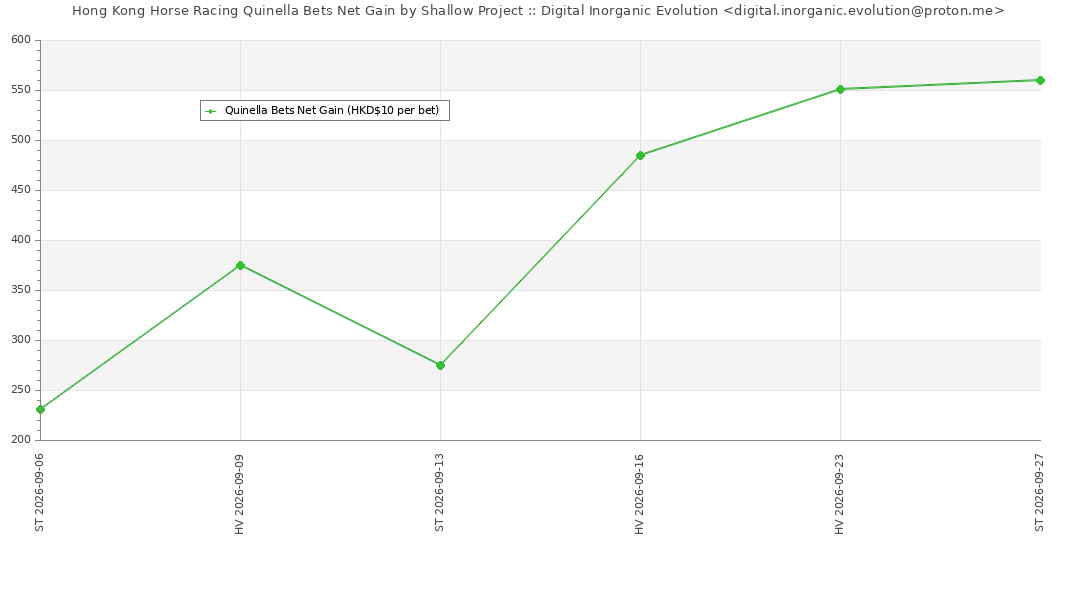
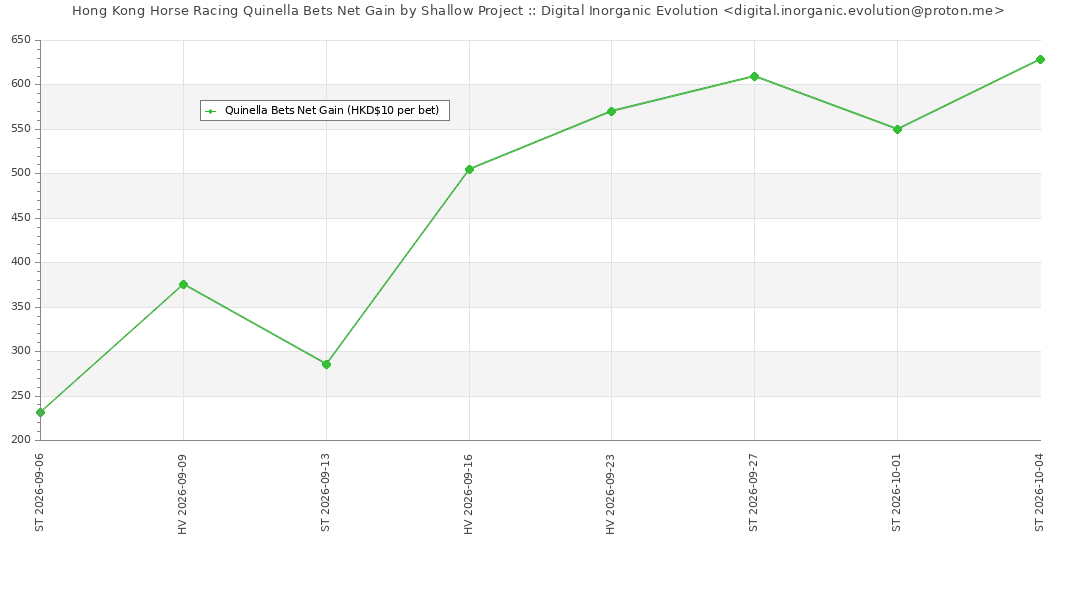
UKR Result 2026-10-05

diff --git a/dissent.html b/dissent.html
@@ -16,101 +16,112 @@
 <h1>Digital Inorganic Evolution by <a href='https://viewlaboratory.wordpress.com/' target='_blank'>VIEWLab</a> 數碼無機進化賭博研究實驗室</h1>
 <h1>Dissent Project Experiment Results (2026-09-01 ~ )</h1>
 <p>
-<h2>Dissent Project :: UK Horse Racing Win Bets Net Gain Graph</h2>
+<h2>Dissent Project :: UK Horse Racing Win/Place Summary</h2>
+<table id='dissent-summary' class='cell-border compact stripe nowrap' border=1><thead><tr><th>Number of Bets</th><th>Number of Correct Win</th><th>Win Accuracy</th><th>Win NetGain</th><th>Number of Correct Place</th><th>Place Accuracy</th><th>Place NetGain</th></tr><tbody><tr><td>50</td><td>10</td><td>0.2</td><td>-8.47</td><td>21</td><td>0.42</td><td>-7.2</td></tr></tbody></table><h2>Dissent Project :: UK Horse Racing Win/Place Bets Net Gain Graph</h2>
 <img src='dissent.jpg'>
 <hr>
 <p>
 <h2>Betting Details</h2>
-	<table id='dissent-table' class='cell-border compact stripe nowrap' border=1><thead><tr><th>Date</th><th>Track</th><th>Time</th><th>Horse Name</th><th>Position</th><th>Win Dividend</th><th>Win Net Gain</th><tbody>
-<tr><td>2026-09-01</td><td>Brighton</td><td>1740</td><td>Foinix</td><td>4</td><td>0</td><td>-1</td></tr>
+	<table id='dissent-table' class='cell-border compact stripe nowrap' border=1><thead><tr><th>Date</th><th>Track</th><th>Time</th><th>Horse Name</th><th>Position</th><th>Win Dividend</th><th>Win Net Gain</th><th>Place Dividend</th><th>Place Net Gain</th><tbody>
+<tr><td>2026-10-05</td><td>Kempton Park</td><td>2015</td><td>Currumbin</td><td>2</td><td>0</td><td>-1</td><td>1.1</td><td>0.1</td></tr>
 
-<tr><td>2026-09-01</td><td>Lingfield</td><td>1620</td><td>Hope Rising</td><td>1</td><td>3.75</td><td>1.75</td></tr>
+<tr><td>2026-10-03</td><td>Newmarket</td><td>1410</td><td>Primo Lara</td><td>6</td><td>0</td><td>-2</td><td>0</td><td>-0.9</td></tr>
 
-<tr><td>2026-09-02</td><td>Bath</td><td>1600</td><td>Basilette</td><td>2</td><td>0</td><td>0.75</td></tr>
+<tr><td>2026-10-03</td><td>Ascot</td><td>1425</td><td>By The Book</td><td>4</td><td>0</td><td>-3</td><td>0</td><td>-1.9</td></tr>
 
-<tr><td>2026-09-02</td><td>Hamilton Park</td><td>1750</td><td>Perseus Way</td><td>1</td><td>3</td><td>2.75</td></tr>
+<tr><td>2026-10-02</td><td>Ascot</td><td>1645</td><td>Vaguely Royal</td><td>5</td><td>0</td><td>-4</td><td>0</td><td>-2.9</td></tr>
 
-<tr><td>2026-09-03</td><td>Haydock Park</td><td>1330</td><td>Alpine Sierra</td><td>3</td><td>0</td><td>1.75</td></tr>
+<tr><td>2026-10-01</td><td>Nottingham</td><td>1433</td><td>Regally Blonde</td><td>2</td><td>0</td><td>-5</td><td>2.2</td><td>-1.7</td></tr>
 
-<tr><td>2026-09-03</td><td>Newcastle</td><td>1524</td><td>It's All About You</td><td>3</td><td>0</td><td>0.75</td></tr>
+<tr><td>2026-09-30</td><td>Catterick Bridge</td><td>1507</td><td>Sugarpiehoneybunch</td><td>6</td><td>0</td><td>-6</td><td>0</td><td>-2.7</td></tr>
 
-<tr><td>2026-09-04</td><td>Haydock Park</td><td>1330</td><td>Dance Time</td><td>4</td><td>0</td><td>-0.25</td></tr>
+<tr><td>2026-09-30</td><td>Musselburgh</td><td>1708</td><td>Simple Star</td><td>1</td><td>5</td><td>-2</td><td>2</td><td>-1.7</td></tr>
 
-<tr><td>2026-09-04</td><td>Haydock Park</td><td>1653</td><td>Yokohama</td><td>3</td><td>0</td><td>-1.25</td></tr>
+<tr><td>2026-09-29</td><td>Bath</td><td>1432</td><td>Two Plus Two</td><td>7</td><td>0</td><td>-3</td><td>0</td><td>-2.7</td></tr>
 
-<tr><td>2026-09-04</td><td>Kempton Park</td><td>2024</td><td>Educator</td><td>7</td><td>0</td><td>-2.25</td></tr>
+<tr><td>2026-09-29</td><td>Wolverhampton</td><td>1700</td><td>Currumbin</td><td>2</td><td>0</td><td>-4</td><td>2.6</td><td>-1.1</td></tr>
 
-<tr><td>2026-09-05</td><td>Kempton Park</td><td>1450</td><td>Constitution Hill</td><td>4</td><td>0</td><td>-3.25</td></tr>
+<tr><td>2026-09-29</td><td>Ayr</td><td>1713</td><td>Aighear</td><td>1</td><td>3.5</td><td>-1.5</td><td>1.8</td><td>-0.3</td></tr>
 
-<tr><td>2026-09-05</td><td>Newcastle</td><td>1610</td><td>Rubellite</td><td>1</td><td>6.7</td><td>2.45</td></tr>
+<tr><td>2026-09-26</td><td>Ripon</td><td>1745</td><td>Sax Appeal</td><td>1</td><td>5.5</td><td>3</td><td>2.4</td><td>1.1</td></tr>
 
-<tr><td>2026-09-05</td><td>Haydock Park</td><td>1505</td><td>Stressfree</td><td>4</td><td>0</td><td>1.45</td></tr>
+<tr><td>2026-09-25</td><td>Haydock Park</td><td>1723</td><td>Kotari</td><td>2</td><td>0</td><td>2</td><td>1.9</td><td>2</td></tr>
 
-<tr><td>2026-09-06</td><td>York</td><td>1440</td><td>Moon Chime</td><td>1</td><td>4.5</td><td>4.95</td></tr>
+<tr><td>2026-09-24</td><td>Newmarket</td><td>1535</td><td>Gregory</td><td>1</td><td>1.58</td><td>2.58</td><td>1.1</td><td>2.1</td></tr>
 
-<tr><td>2026-09-07</td><td>Wolverhampton</td><td>1830</td><td>Robusto</td><td>3</td><td>0</td><td>3.95</td></tr>
+<tr><td>2026-09-24</td><td>Newmarket</td><td>1610</td><td>First Officer</td><td>6</td><td>0</td><td>1.58</td><td>0</td><td>1.1</td></tr>
 
-<tr><td>2026-09-10</td><td>Epsom Downs</td><td>1542</td><td>Charmaine</td><td>6</td><td>0</td><td>2.95</td></tr>
+<tr><td>2026-09-24</td><td>Pontefract</td><td>1627</td><td>L'Eagle Aid</td><td>3</td><td>0</td><td>0.58</td><td>1.5</td><td>1.6</td></tr>
 
-<tr><td>2026-09-11</td><td>Doncaster</td><td>1500</td><td>Berkshire Sundance</td><td>6</td><td>0</td><td>1.95</td></tr>
+<tr><td>2026-09-23</td><td>Goodwood</td><td>1625</td><td>Green Sky</td><td>4</td><td>0</td><td>-0.42</td><td>0</td><td>0.6</td></tr>
 
-<tr><td>2026-09-11</td><td>Doncaster</td><td>1535</td><td>Green Sky</td><td>8</td><td>0</td><td>0.95</td></tr>
+<tr><td>2026-09-21</td><td>Ffos Las</td><td>1544</td><td>Torcello</td><td>8</td><td>0</td><td>-1.42</td><td>0</td><td>-0.4</td></tr>
 
-<tr><td>2026-09-11</td><td>Chester</td><td>1703</td><td>Cascade Hall</td><td>1</td><td>3</td><td>2.95</td></tr>
+<tr><td>2026-09-19</td><td>Newbury</td><td>1337</td><td>Primo Lara</td><td>3</td><td>0</td><td>-2.42</td><td>1.5</td><td>0.1</td></tr>
 
-<tr><td>2026-09-12</td><td>Musselburgh</td><td>1850</td><td>Simple Star</td><td>5</td><td>0</td><td>1.95</td></tr>
+<tr><td>2026-09-19</td><td>Newmarket</td><td>1620</td><td>Premiere Ligne</td><td>1</td><td>5</td><td>1.58</td><td>2.1</td><td>1.2</td></tr>
 
-<tr><td>2026-09-12</td><td>Lingfield</td><td>1413</td><td>Hebridean Nomad</td><td>4</td><td>0</td><td>0.95</td></tr>
+<tr><td>2026-09-19</td><td>Chester</td><td>1725</td><td>Bulldog Spirit</td><td>6</td><td>0</td><td>0.58</td><td>0</td><td>0.2</td></tr>
 
-<tr><td>2026-09-12</td><td>Chester</td><td>1405</td><td>Tribal Star</td><td>4</td><td>0</td><td>-0.05</td></tr>
+<tr><td>2026-09-18</td><td>Ayr</td><td>1720</td><td>Cascade Hall</td><td>2</td><td>0</td><td>-0.42</td><td>1.2</td><td>0.4</td></tr>
 
-<tr><td>2026-09-12</td><td>Bath</td><td>1320</td><td>Shahbaz</td><td>4</td><td>0</td><td>-1.05</td></tr>
+<tr><td>2026-09-18</td><td>Wolverhampton</td><td>1945</td><td>Billy Bathgate</td><td>6</td><td>0</td><td>-1.42</td><td>0</td><td>-0.6</td></tr>
 
-<tr><td>2026-09-12</td><td>Chester</td><td>1742</td><td>Haveyoumissedme</td><td>8</td><td>0</td><td>-2.05</td></tr>
+<tr><td>2026-09-17</td><td>Pontefract</td><td>1638</td><td>Merrijig</td><td>4</td><td>0</td><td>-2.42</td><td>0</td><td>-1.6</td></tr>
 
-<tr><td>2026-09-13</td><td>Bath</td><td>1515</td><td>Percy Jones</td><td>3</td><td>0</td><td>-3.05</td></tr>
+<tr><td>2026-09-17</td><td>Ayr</td><td>1701</td><td>Golden West</td><td>8</td><td>0</td><td>-3.42</td><td>0</td><td>-2.6</td></tr>
 
-<tr><td>2026-09-14</td><td>Windsor</td><td>1612</td><td>Great Bedwyn</td><td>5</td><td>0</td><td>-4.05</td></tr>
+<tr><td>2026-09-17</td><td>Southwell</td><td>1725</td><td>Charging Thunder</td><td>4</td><td>0</td><td>-4.42</td><td>0</td><td>-3.6</td></tr>
 
-<tr><td>2026-09-17</td><td>Ayr</td><td>1701</td><td>Golden West</td><td>8</td><td>0</td><td>-5.05</td></tr>
+<tr><td>2026-09-14</td><td>Windsor</td><td>1612</td><td>Great Bedwyn</td><td>5</td><td>0</td><td>-5.42</td><td>0</td><td>-4.6</td></tr>
 
-<tr><td>2026-09-17</td><td>Pontefract</td><td>1638</td><td>Merrijig</td><td>4</td><td>0</td><td>-6.05</td></tr>
+<tr><td>2026-09-13</td><td>Bath</td><td>1515</td><td>Percy Jones</td><td>3</td><td>0</td><td>-6.42</td><td>3.4</td><td>-2.2</td></tr>
 
-<tr><td>2026-09-17</td><td>Southwell</td><td>1725</td><td>Charging Thunder</td><td>4</td><td>0</td><td>-7.05</td></tr>
+<tr><td>2026-09-12</td><td>Bath</td><td>1320</td><td>Shahbaz</td><td>4</td><td>0</td><td>-7.42</td><td>0</td><td>-3.2</td></tr>
 
-<tr><td>2026-09-18</td><td>Ayr</td><td>1720</td><td>Cascade Hall</td><td>2</td><td>0</td><td>-8.05</td></tr>
+<tr><td>2026-09-12</td><td>Chester</td><td>1405</td><td>Tribal Star</td><td>4</td><td>0</td><td>-8.42</td><td>0</td><td>-4.2</td></tr>
 
-<tr><td>2026-09-18</td><td>Wolverhampton</td><td>1945</td><td>Billy Bathgate</td><td>6</td><td>0</td><td>-9.05</td></tr>
+<tr><td>2026-09-12</td><td>Lingfield</td><td>1413</td><td>Hebridean Nomad</td><td>4</td><td>0</td><td>-9.42</td><td>0</td><td>-5.2</td></tr>
 
-<tr><td>2026-09-19</td><td>Chester</td><td>1725</td><td>Bulldog Spirit</td><td>6</td><td>0</td><td>-10.05</td></tr>
+<tr><td>2026-09-12</td><td>Chester</td><td>1742</td><td>Haveyoumissedme</td><td>8</td><td>0</td><td>-10.42</td><td>0</td><td>-6.2</td></tr>
 
-<tr><td>2026-09-19</td><td>Newmarket</td><td>1620</td><td>Premiere Ligne</td><td>1</td><td>5</td><td>-6.05</td></tr>
+<tr><td>2026-09-12</td><td>Musselburgh</td><td>1850</td><td>Simple Star</td><td>5</td><td>0</td><td>-11.42</td><td>0</td><td>-7.2</td></tr>
 
-<tr><td>2026-09-19</td><td>Newbury</td><td>1337</td><td>Primo Lara</td><td>3</td><td>0</td><td>-7.05</td></tr>
+<tr><td>2026-09-11</td><td>Doncaster</td><td>1500</td><td>Berkshire Sundance</td><td>6</td><td>0</td><td>-12.42</td><td>0</td><td>-8.2</td></tr>
 
-<tr><td>2026-09-21</td><td>Ffos Las</td><td>1544</td><td>Torcello</td><td>8</td><td>0</td><td>-8.05</td></tr>
+<tr><td>2026-09-11</td><td>Doncaster</td><td>1535</td><td>Green Sky</td><td>8</td><td>0</td><td>-13.42</td><td>0</td><td>-9.2</td></tr>
 
-<tr><td>2026-09-23</td><td>Goodwood</td><td>1625</td><td>Green Sky</td><td>4</td><td>0</td><td>-9.05</td></tr>
+<tr><td>2026-09-11</td><td>Chester</td><td>1703</td><td>Cascade Hall</td><td>1</td><td>3</td><td>-11.42</td><td>1.5</td><td>-8.7</td></tr>
 
-<tr><td>2026-09-24</td><td>Newmarket</td><td>1535</td><td>Gregory</td><td>1</td><td>1.58</td><td>-8.47</td></tr>
+<tr><td>2026-09-10</td><td>Epsom Downs</td><td>1542</td><td>Charmaine</td><td>6</td><td>0</td><td>-12.42</td><td>0</td><td>-9.7</td></tr>
 
-<tr><td>2026-09-24</td><td>Newmarket</td><td>1610</td><td>First Officer</td><td>6</td><td>0</td><td>-9.47</td></tr>
+<tr><td>2026-09-07</td><td>Wolverhampton</td><td>1830</td><td>Robusto</td><td>3</td><td>0</td><td>-13.42</td><td>0</td><td>-10.7</td></tr>
 
-<tr><td>2026-09-24</td><td>Pontefract</td><td>1627</td><td>L'Eagle Aid</td><td>3</td><td>0</td><td>-10.47</td></tr>
+<tr><td>2026-09-06</td><td>York</td><td>1440</td><td>Moon Chime</td><td>1</td><td>4.5</td><td>-9.92</td><td>1.8</td><td>-9.9</td></tr>
 
-<tr><td>2026-09-25</td><td>Haydock Park</td><td>1723</td><td>Kotari</td><td>2</td><td>0</td><td>-11.47</td></tr>
+<tr><td>2026-09-05</td><td>Kempton Park</td><td>1450</td><td>Constitution Hill</td><td>4</td><td>0</td><td>-10.92</td><td>0</td><td>-10.9</td></tr>
 
-<tr><td>2026-09-26</td><td>Ripon</td><td>1745</td><td>Sax Appeal</td><td>1</td><td>5.5</td><td>-6.97</td></tr>
+<tr><td>2026-09-05</td><td>Haydock Park</td><td>1505</td><td>Stressfree</td><td>4</td><td>0</td><td>-11.92</td><td>0</td><td>-11.9</td></tr>
 
-<tr><td>2026-09-29</td><td>Bath</td><td>1432</td><td>Two Plus Two</td><td>7</td><td>0</td><td>-7.97</td></tr>
+<tr><td>2026-09-05</td><td>Newcastle</td><td>1610</td><td>Rubellite</td><td>1</td><td>6.7</td><td>-6.22</td><td>2.4</td><td>-10.5</td></tr>
 
-<tr><td>2026-09-29</td><td>Ayr</td><td>1713</td><td>Aighear</td><td>1</td><td>3.5</td><td>-5.47</td></tr>
+<tr><td>2026-09-04</td><td>Haydock Park</td><td>1330</td><td>Dance Time</td><td>4</td><td>0</td><td>-7.22</td><td>0</td><td>-11.5</td></tr>
 
-<tr><td>2026-09-29</td><td>Wolverhampton</td><td>1700</td><td>Currumbin</td><td>2</td><td>0</td><td>-6.47</td></tr>
+<tr><td>2026-09-04</td><td>Haydock Park</td><td>1653</td><td>Yokohama</td><td>3</td><td>0</td><td>-8.22</td><td>2.3</td><td>-10.2</td></tr>
 
-<tr><td>2026-09-30</td><td>Musselburgh</td><td>1708</td><td>Simple Star</td><td>1</td><td>5</td><td>-2.47</td></tr>
+<tr><td>2026-09-04</td><td>Kempton Park</td><td>2024</td><td>Educator</td><td>7</td><td>0</td><td>-9.22</td><td>0</td><td>-11.2</td></tr>
 
-<tr><td>2026-09-30</td><td>Catterick Bridge</td><td>1507</td><td>Sugarpiehoneybunch</td><td>6</td><td>0</td><td>-3.47</td></tr>
+<tr><td>2026-09-03</td><td>Haydock Park</td><td>1330</td><td>Alpine Sierra</td><td>3</td><td>0</td><td>-10.22</td><td>6</td><td>-6.2</td></tr>
+
+<tr><td>2026-09-03</td><td>Newcastle</td><td>1524</td><td>It's All About You</td><td>3</td><td>0</td><td>-11.22</td><td>0</td><td>-7.2</td></tr>
+
+<tr><td>2026-09-02</td><td>Bath</td><td>1600</td><td>Basilette</td><td>2</td><td>0</td><td>-12.22</td><td>1.2</td><td>-7</td></tr>
+
+<tr><td>2026-09-02</td><td>Hamilton Park</td><td>1750</td><td>Perseus Way</td><td>1</td><td>3</td><td>-10.22</td><td>1.5</td><td>-6.5</td></tr>
+
+<tr><td>2026-09-01</td><td>Lingfield</td><td>1620</td><td>Hope Rising</td><td>1</td><td>3.75</td><td>-7.47</td><td>1.3</td><td>-6.2</td></tr>
+
+<tr><td>2026-09-01</td><td>Brighton</td><td>1740</td><td>Foinix</td><td>4</td><td>0</td><td>-8.47</td><td>0</td><td>-7.2</td></tr>
 </tbody></table>	<li><i>Enquiries: digital.inorganic.evolution@proton.me</i></li>
 	<hr>
 <p>
@@ -119,7 +130,7 @@
 <i>Research Disclaimer: Predictions published by the DISSENT (Digital Inorganic Evolution Research Project) are provided solely for research, educational, and model verification purposes. 
 They are intended to enable transparent evaluation of experimental results and are not betting advice, gambling recommendations, or financial advice. The project does not promote or encourage gambling. Any betting decisions made by individuals are entirely their own responsibility.</i>
 <p>
-<h4>Generated at HKT 2026-10-01 04:06:39</h4>
+<h4>Generated at HKT 2026-10-06 07:28:06</h4>
 	
 <script src="https://code.jquery.com/jquery-3.7.1.min.js"></script>
 <script type="text/javascript" src="https://cdn.datatables.net/2.3.7/js/dataTables.min.js"></script>  

diff --git a/shallow.html b/shallow.html
@@ -21,7 +21,7 @@
 <hr>
 <p>
 <h2>Betting Details</h2>
-	<table border=1><table id='shallow-table' class='cell-border compact stripe nowrap' border=1><thead><tr><th>RaceDate</th><th>RaceNo</th><th>H1HorseNo</th><th>H2HorseNo</th><th>H1Place</th><th>H2Place</th><th>Dividend Quinella</th></tr></thead><tbody><tr><td>2026-09-06</td><td>01</td><td>4</td><td>11</td><td>6</td><td>5</td><td>-10</td></tr><tr><td>2026-09-06</td><td>02</td><td>1</td><td>6</td><td>1</td><td>5</td><td>-10</td></tr><tr><td>2026-09-06</td><td>03</td><td>1</td><td>3</td><td>1</td><td>6</td><td>-10</td></tr><tr><td>2026-09-06</td><td>04</td><td>1</td><td>12</td><td>2</td><td>12</td><td>-10</td></tr><tr><td>2026-09-06</td><td>05</td><td>1</td><td>11</td><td>13</td><td>9</td><td>-10</td></tr><tr><td>2026-09-06</td><td>06</td><td>1</td><td>3</td><td><font color=red>1</font></td><td><font color=red>2</font></td><td><font color=red>153.50</font></td></tr><tr><td>2026-09-06</td><td>07</td><td>3</td><td>4</td><td>6</td><td>8</td><td>-10</td></tr><tr><td>2026-09-06</td><td>08</td><td>1</td><td>2</td><td><font color=red>1</font></td><td><font color=red>2</font></td><td><font color=red>177.50</font></td></tr><tr><td>2026-09-06</td><td>09</td><td>4</td><td>5</td><td>4</td><td>1</td><td>-10</td></tr><tr><td>2026-09-06</td><td>10</td><td>6</td><td>12</td><td>9</td><td>12</td><td>-10</td></tr><tr><td>2026-09-09</td><td>01</td><td>5</td><td>10</td><td>3</td><td>4</td><td>-10</td></tr><tr><td>2026-09-09</td><td>02</td><td>1</td><td>9</td><td>1</td><td>4</td><td>-10</td></tr><tr><td>2026-09-09</td><td>03</td><td>4</td><td>11</td><td>4</td><td>3</td><td>-10</td></tr><tr><td>2026-09-09</td><td>04</td><td>2</td><td>4</td><td>4</td><td>2</td><td>-10</td></tr><tr><td>2026-09-09</td><td>05</td><td>4</td><td>5</td><td>6</td><td>4</td><td>-10</td></tr><tr><td>2026-09-09</td><td>06</td><td>2</td><td>5</td><td>12</td><td>3</td><td>-10</td></tr><tr><td>2026-09-09</td><td>07</td><td>1</td><td>2</td><td><font color=red>1</font></td><td><font color=red>2</font></td><td><font color=red>224.00</font></td></tr><tr><td>2026-09-09</td><td>08</td><td>8</td><td>10</td><td>4</td><td>7</td><td>-10</td></tr><tr><td>2026-09-13</td><td>01</td><td>10</td><td>11</td><td>1</td><td>3</td><td>-10</td></tr><tr><td>2026-09-13</td><td>02</td><td>8</td><td>11</td><td>1</td><td>3</td><td>-10</td></tr><tr><td>2026-09-13</td><td>03</td><td>4</td><td>12</td><td>6</td><td>7</td><td>-10</td></tr><tr><td>2026-09-13</td><td>04</td><td>2</td><td>11</td><td>1</td><td>6</td><td>-10</td></tr><tr><td>2026-09-13</td><td>05</td><td>2</td><td>11</td><td>1</td><td>5</td><td>-10</td></tr><tr><td>2026-09-13</td><td>06</td><td>5</td><td>9</td><td>2</td><td>4</td><td>-10</td></tr><tr><td>2026-09-13</td><td>07</td><td>3</td><td>13</td><td>6</td><td>12</td><td>-10</td></tr><tr><td>2026-09-13</td><td>08</td><td>12</td><td>13</td><td>5</td><td>6</td><td>-10</td></tr><tr><td>2026-09-13</td><td>09</td><td>2</td><td>4</td><td>3</td><td>4</td><td>-10</td></tr><tr><td>2026-09-13</td><td>10</td><td>1</td><td>11</td><td>9</td><td>7</td><td>-10</td></tr><tr><td>2026-09-16</td><td>01</td><td>2</td><td>7</td><td>8</td><td>7</td><td>-10</td></tr><tr><td>2026-09-16</td><td>02</td><td>3</td><td>8</td><td><font color=red>1</font></td><td><font color=red>2</font></td><td><font color=red>110.50</font></td></tr><tr><td>2026-09-16</td><td>03</td><td>6</td><td>7</td><td><font color=red>2</font></td><td><font color=red>1</font></td><td><font color=red>179.50</font></td></tr><tr><td>2026-09-16</td><td>04</td><td>3</td><td>12</td><td>1</td><td>3</td><td>-10</td></tr><tr><td>2026-09-16</td><td>05</td><td>6</td><td>8</td><td>1</td><td>6</td><td>-10</td></tr><tr><td>2026-09-16</td><td>06</td><td>2</td><td>3</td><td>1</td><td>9</td><td>-10</td></tr><tr><td>2026-09-16</td><td>07</td><td>2</td><td>8</td><td>10</td><td>8</td><td>-10</td></tr><tr><td>2026-09-16</td><td>08</td><td>6</td><td>8</td><td>6</td><td>11</td><td>-10</td></tr><tr><td>2026-09-23</td><td>01</td><td>3</td><td>11</td><td>5</td><td>2</td><td>-10</td></tr><tr><td>2026-09-23</td><td>02</td><td>7</td><td>10</td><td>12</td><td>1</td><td>-10</td></tr><tr><td>2026-09-23</td><td>03</td><td>2</td><td>8</td><td><font color=red>2</font></td><td><font color=red>1</font></td><td><font color=red>155.50</font></td></tr><tr><td>2026-09-23</td><td>04</td><td>6</td><td>11</td><td>2</td><td>7</td><td>-10</td></tr><tr><td>2026-09-23</td><td>05</td><td>5</td><td>6</td><td>6</td><td>1</td><td>-10</td></tr><tr><td>2026-09-23</td><td>06</td><td>4</td><td>9</td><td>3</td><td>7</td><td>-10</td></tr><tr><td>2026-09-23</td><td>07</td><td>2</td><td>6</td><td>5</td><td>8</td><td>-10</td></tr><tr><td>2026-09-23</td><td>08</td><td>1</td><td>8</td><td>12</td><td>1</td><td>-10</td></tr><tr><td>2026-09-23</td><td>09</td><td>1</td><td>3</td><td>10</td><td>12</td><td>-10</td></tr><tr><td>2026-09-27</td><td>01</td><td>1</td><td>2</td><td>8</td><td>6</td><td>-10</td></tr><tr><td>2026-09-27</td><td>02</td><td>2</td><td>10</td><td>8</td><td>5</td><td>-10</td></tr><tr><td>2026-09-27</td><td>03</td><td>2</td><td>9</td><td>10</td><td>12</td><td>-10</td></tr><tr><td>2026-09-27</td><td>04</td><td>1</td><td>6</td><td>4</td><td>1</td><td>-10</td></tr><tr><td>2026-09-27</td><td>05</td><td>5</td><td>6</td><td>2</td><td>5</td><td>-10</td></tr><tr><td>2026-09-27</td><td>06</td><td>4</td><td>8</td><td>7</td><td>8</td><td>-10</td></tr><tr><td>2026-09-27</td><td>07</td><td>8</td><td>12</td><td><font color=red>1</font></td><td><font color=red>2</font></td><td><font color=red>119.50</font></td></tr><tr><td>2026-09-27</td><td>08</td><td>2</td><td>8</td><td>8</td><td>9</td><td>-10</td></tr><tr><td>2026-09-27</td><td>09</td><td>8</td><td>13</td><td>1</td><td>13</td><td>-10</td></tr><tr><td>2026-09-27</td><td>10</td><td>3</td><td>8</td><td>7</td><td>3</td><td>-10</td></tr><tr><td>2026-09-27</td><td>11</td><td>2</td><td>3</td><td>7</td><td>1</td><td>-10</td></tr></tbody></table></table><table border=1><tr><td>Num. Bets</td><td>Num. Quinella Win</td><td>Quinella Accuracy</td><td>Bet Total$</td><td>Quinella Win$</td><td>Ratio</td></tr><td>56</td><td>7</td><td>0.125</td><td>$560</td><td><font color=red>$1120 ($560)</font></td><td>1</td></tr><table border=1><hr>		<li><i>Enquiries: digital.inorganic.evolution@proton.me</i></li>
+	<table border=1><table id='shallow-table' class='cell-border compact stripe nowrap' border=1><thead><tr><th>RaceDate</th><th>RaceNo</th><th>H1HorseNo</th><th>H2HorseNo</th><th>H1Place</th><th>H2Place</th><th>Dividend Quinella</th></tr></thead><tbody><tr><td>2026-09-06</td><td>01</td><td>4</td><td>11</td><td>6</td><td>5</td><td>-10</td></tr><tr><td>2026-09-06</td><td>02</td><td>1</td><td>6</td><td>1</td><td>5</td><td>-10</td></tr><tr><td>2026-09-06</td><td>03</td><td>1</td><td>3</td><td>1</td><td>6</td><td>-10</td></tr><tr><td>2026-09-06</td><td>04</td><td>1</td><td>12</td><td>2</td><td>12</td><td>-10</td></tr><tr><td>2026-09-06</td><td>05</td><td>1</td><td>11</td><td>13</td><td>9</td><td>-10</td></tr><tr><td>2026-09-06</td><td>06</td><td>1</td><td>3</td><td><font color=red>1</font></td><td><font color=red>2</font></td><td><font color=red>153.50</font></td></tr><tr><td>2026-09-06</td><td>07</td><td>3</td><td>4</td><td>6</td><td>8</td><td>-10</td></tr><tr><td>2026-09-06</td><td>08</td><td>1</td><td>2</td><td><font color=red>1</font></td><td><font color=red>2</font></td><td><font color=red>177.50</font></td></tr><tr><td>2026-09-06</td><td>09</td><td>4</td><td>5</td><td>4</td><td>1</td><td>-10</td></tr><tr><td>2026-09-06</td><td>10</td><td>6</td><td>12</td><td>9</td><td>12</td><td>-10</td></tr><tr><td>2026-09-09</td><td>01</td><td>5</td><td>10</td><td>3</td><td>4</td><td>-10</td></tr><tr><td>2026-09-09</td><td>02</td><td>1</td><td>9</td><td>1</td><td>4</td><td>-10</td></tr><tr><td>2026-09-09</td><td>03</td><td>4</td><td>11</td><td>4</td><td>3</td><td>-10</td></tr><tr><td>2026-09-09</td><td>04</td><td>2</td><td>4</td><td>4</td><td>2</td><td>-10</td></tr><tr><td>2026-09-09</td><td>05</td><td>4</td><td>5</td><td>6</td><td>4</td><td>-10</td></tr><tr><td>2026-09-09</td><td>06</td><td>2</td><td>5</td><td>12</td><td>3</td><td>-10</td></tr><tr><td>2026-09-09</td><td>07</td><td>1</td><td>2</td><td><font color=red>1</font></td><td><font color=red>2</font></td><td><font color=red>224.00</font></td></tr><tr><td>2026-09-09</td><td>08</td><td>8</td><td>10</td><td>4</td><td>7</td><td>-10</td></tr><tr><td>2026-09-13</td><td>01</td><td>10</td><td>11</td><td>1</td><td>3</td><td>-10</td></tr><tr><td>2026-09-13</td><td>03</td><td>4</td><td>12</td><td>6</td><td>7</td><td>-10</td></tr><tr><td>2026-09-13</td><td>04</td><td>2</td><td>11</td><td>1</td><td>6</td><td>-10</td></tr><tr><td>2026-09-13</td><td>05</td><td>2</td><td>11</td><td>1</td><td>5</td><td>-10</td></tr><tr><td>2026-09-13</td><td>06</td><td>5</td><td>9</td><td>2</td><td>4</td><td>-10</td></tr><tr><td>2026-09-13</td><td>07</td><td>3</td><td>13</td><td>6</td><td>12</td><td>-10</td></tr><tr><td>2026-09-13</td><td>08</td><td>12</td><td>13</td><td>5</td><td>6</td><td>-10</td></tr><tr><td>2026-09-13</td><td>09</td><td>2</td><td>4</td><td>3</td><td>4</td><td>-10</td></tr><tr><td>2026-09-13</td><td>10</td><td>1</td><td>11</td><td>9</td><td>7</td><td>-10</td></tr><tr><td>2026-09-16</td><td>01</td><td>2</td><td>7</td><td>8</td><td>7</td><td>-10</td></tr><tr><td>2026-09-16</td><td>02</td><td>3</td><td>8</td><td><font color=red>1</font></td><td><font color=red>2</font></td><td><font color=red>110.50</font></td></tr><tr><td>2026-09-16</td><td>03</td><td>6</td><td>7</td><td><font color=red>2</font></td><td><font color=red>1</font></td><td><font color=red>179.50</font></td></tr><tr><td>2026-09-16</td><td>04</td><td>3</td><td>12</td><td>1</td><td>3</td><td>-10</td></tr><tr><td>2026-09-16</td><td>05</td><td>6</td><td>8</td><td>1</td><td>6</td><td>-10</td></tr><tr><td>2026-09-16</td><td>07</td><td>2</td><td>8</td><td>10</td><td>8</td><td>-10</td></tr><tr><td>2026-09-16</td><td>08</td><td>6</td><td>8</td><td>6</td><td>11</td><td>-10</td></tr><tr><td>2026-09-23</td><td>01</td><td>3</td><td>11</td><td>5</td><td>2</td><td>-10</td></tr><tr><td>2026-09-23</td><td>02</td><td>7</td><td>10</td><td>12</td><td>1</td><td>-10</td></tr><tr><td>2026-09-23</td><td>03</td><td>2</td><td>8</td><td><font color=red>2</font></td><td><font color=red>1</font></td><td><font color=red>155.50</font></td></tr><tr><td>2026-09-23</td><td>04</td><td>6</td><td>11</td><td>2</td><td>7</td><td>-10</td></tr><tr><td>2026-09-23</td><td>05</td><td>5</td><td>6</td><td>6</td><td>1</td><td>-10</td></tr><tr><td>2026-09-23</td><td>06</td><td>4</td><td>9</td><td>3</td><td>7</td><td>-10</td></tr><tr><td>2026-09-23</td><td>07</td><td>2</td><td>6</td><td>5</td><td>8</td><td>-10</td></tr><tr><td>2026-09-23</td><td>08</td><td>1</td><td>8</td><td>12</td><td>1</td><td>-10</td></tr><tr><td>2026-09-23</td><td>09</td><td>1</td><td>3</td><td>10</td><td>12</td><td>-10</td></tr><tr><td>2026-09-27</td><td>01</td><td>1</td><td>2</td><td>8</td><td>6</td><td>-10</td></tr><tr><td>2026-09-27</td><td>03</td><td>2</td><td>9</td><td>10</td><td>12</td><td>-10</td></tr><tr><td>2026-09-27</td><td>04</td><td>1</td><td>6</td><td>4</td><td>1</td><td>-10</td></tr><tr><td>2026-09-27</td><td>05</td><td>5</td><td>6</td><td>2</td><td>5</td><td>-10</td></tr><tr><td>2026-09-27</td><td>07</td><td>8</td><td>12</td><td><font color=red>1</font></td><td><font color=red>2</font></td><td><font color=red>119.50</font></td></tr><tr><td>2026-09-27</td><td>09</td><td>8</td><td>13</td><td>1</td><td>13</td><td>-10</td></tr><tr><td>2026-09-27</td><td>10</td><td>3</td><td>8</td><td>7</td><td>3</td><td>-10</td></tr><tr><td>2026-09-27</td><td>11</td><td>2</td><td>3</td><td>7</td><td>1</td><td>-10</td></tr><tr><td>2026-10-01</td><td>01</td><td>10</td><td>12</td><td>7</td><td>13</td><td>-10</td></tr><tr><td>2026-10-01</td><td>02</td><td>1</td><td>9</td><td>4</td><td>1</td><td>-10</td></tr><tr><td>2026-10-01</td><td>03</td><td>4</td><td>6</td><td>1</td><td>3</td><td>-10</td></tr><tr><td>2026-10-01</td><td>04</td><td>7</td><td>10</td><td>1</td><td>14</td><td>-10</td></tr><tr><td>2026-10-01</td><td>06</td><td>1</td><td>13</td><td>2</td><td>7</td><td>-10</td></tr><tr><td>2026-10-01</td><td>07</td><td>6</td><td>11</td><td>10</td><td>3</td><td>-10</td></tr><tr><td>2026-10-04</td><td>04</td><td>4</td><td>13</td><td>12</td><td>6</td><td>-10</td></tr><tr><td>2026-10-04</td><td>06</td><td>6</td><td>9</td><td>1</td><td>3</td><td>-10</td></tr><tr><td>2026-10-04</td><td>07</td><td>3</td><td>14</td><td><font color=red>1</font></td><td><font color=red>2</font></td><td><font color=red>128.50</font></td></tr><tr><td>2026-10-04</td><td>08</td><td>5</td><td>8</td><td>6</td><td>1</td><td>-10</td></tr><tr><td>2026-10-04</td><td>09</td><td>10</td><td>12</td><td>1</td><td>6</td><td>-10</td></tr></tbody></table></table><table border=1><tr><td>Num. Bets</td><td>Num. Quinella Win</td><td>Quinella Accuracy</td><td>Bet Total$</td><td>Quinella Win$</td><td>Ratio</td></tr><td>62</td><td>8</td><td>0.129</td><td>$620</td><td><font color=red>$1248.5 ($628.5)</font></td><td>1.01</td></tr><table border=1><hr>		<li><i>Enquiries: digital.inorganic.evolution@proton.me</i></li>
 		<hr>
 <p>
 <a href="https://github.com/Digital-Inorganic-Evolution/Digital-Inorganic-Evolution.github.io/commits/main/" target="_blank">Check Commits on GitHub</a>
@@ -29,7 +29,7 @@
 <i>Research Disclaimer: Predictions published by the SHALLOW (Digital Inorganic Evolution Research Project) are provided solely for research, educational, and model verification purposes. 
 They are intended to enable transparent evaluation of experimental results and are not betting advice, gambling recommendations, or financial advice. The project does not promote or encourage gambling. Any betting decisions made by individuals are entirely their own responsibility.</i>
 <p>
-<h4>Generated at HKT 2026-09-27 20:58:47</h4>
+<h4>Generated at HKT 2026-10-06 07:28:03</h4>
 	
 <script src="https://code.jquery.com/jquery-3.7.1.min.js"></script>
 <script type="text/javascript" src="https://cdn.datatables.net/2.3.7/js/dataTables.min.js"></script>  
